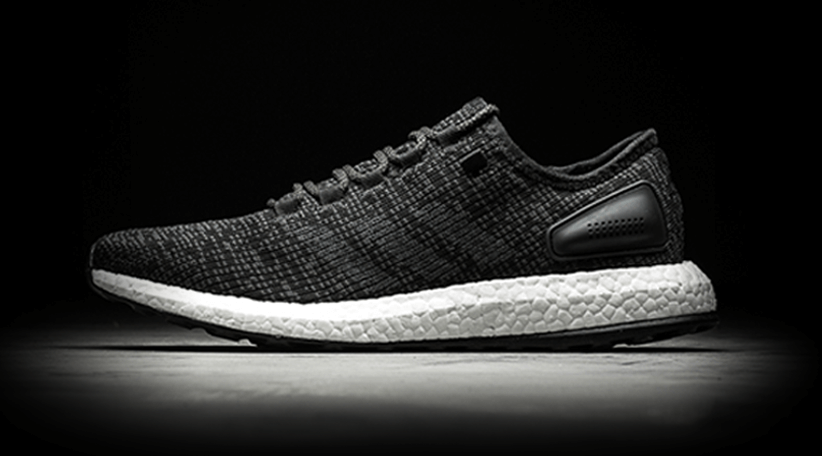
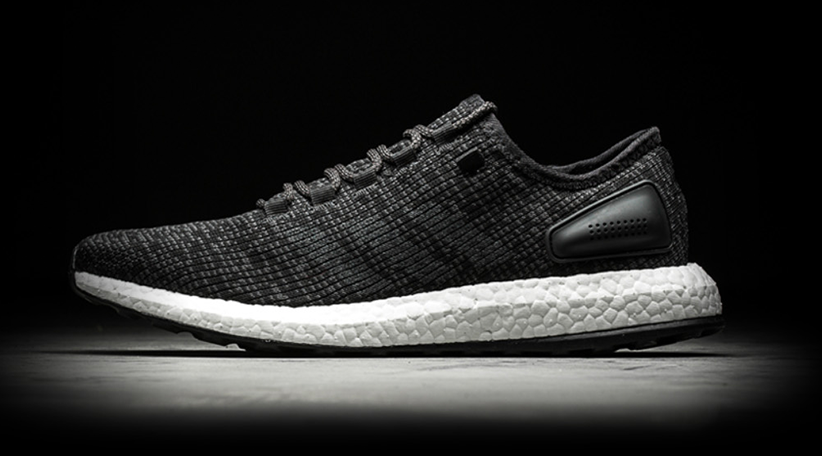
feedback 0220 19:28

Changed region(s): [[0.0304, 0.2149, 0.9124, 0.9211]]

diff --git a/app/css/layouts/_sections.scss b/app/css/layouts/_sections.scss
@@ -1,14 +1,14 @@
 #kv{
 	overflow:hidden;
-	@include Item(1336, 614, 0, 0, 0 , 0, 1336, 'fit', 'relative');
+	@include Item(1600, 795, 0, 0, 0 , 0, 1600, 'fit', 'relative');
 	padding-top: 100vh;
 	.kv{
-		@include Item(1336, 614, 0, 0, 0 , 0, 1336, 'fit', 'absolute');
+		@include Item(1600, 795, 0, 0, 0 , 0, 1600, 'fit', 'absolute');
 		background-size: cover;
 		transform: scale(1.4);
-		background-position: right center;
+		background-position: right bottom;
 		opacity: 0.1;
-		margin-top: 71px;
+		// margin-top: 71px;
 		padding-top: 100vh;
 		@media screen and (max-width: #{$screen-xs - 1}) {
 			@include Item(640, 836, 83, 0, 0, 0, 640,'fit','absolute');
@@ -16,26 +16,24 @@
 		}
 	}
 	.kv-text-1{
-		@include Item(672, 86, 170, 0, 0 , 70, 1336, 'fit', 'absolute');
-		@include Item(672, 86, 0, 0, 0 , 70, 1336, 'fit', 'absolute');
-		top: per(170, 795);
+		@include Item(784, 102, 210, 0, 0 , 112, 1600, 'fit', 'absolute');
+		// top: per(170, 795);
 
 		background-size: 100% auto;
 		text-indent: -9999em;
 		opacity: 0.1;
+		background-repeat: no-repeat;
 		@media screen and (max-width: #{$screen-xs - 1}) {
 			// @include Item(362, 46, 123, 0, 0, 129, 640,'fit','absolute');
 			@include Item(362, 46, 200, 0, 0, 129, 640,'fit','absolute');
 		}
 	}
 	.kv-text-2{
-		@include Item(566, 58, 288, 0, 0 , 70, 1336, 'fit', 'absolute');
-		@include Item(566, 58, 0, 0, 0 , 70, 1336, 'fit', 'absolute');
-		top: per(288, 795);
+		@include Item(663, 70, 352, 0, 0 , 112, 1600, 'fit', 'absolute');
 		background-size: 100% auto;
 		text-indent: -9999em;
 		opacity: 0.1;
-		// top: 20%;
+		background-repeat: no-repeat;
 		@media screen and (max-width: #{$screen-xs - 1}) {
 			// @include Item(362, 38, 195, 0, 0, 129, 640,'fit','absolute');
 			@include Item(362, 38, 270, 0, 0, 129, 640,'fit','absolute');
@@ -126,7 +124,7 @@
 		text-indent: -9999em;
 		background-repeat: no-repeat;
 		@media screen and (max-width: #{$screen-xs - 1}) {
-			@include Item(353, 205, 137, 0, 0, 107, 640,'fit','absolute');
+			@include Item(402, 209, 50, 0, 0, 107, 640,'fit','absolute');
 		}
 	}
 	.shadow{
@@ -210,7 +208,7 @@
 		opacity: 0.1;
 		z-index: 3;
 		@media screen and (max-width: #{$screen-xs - 1}) {
-			@include Item(339, 204, 60, 0, 0, 107, 640,'fit','absolute');
+			@include Item(387, 210, 60, 0, 0, 107, 640,'fit','absolute');
 		}
 		span{
 			@include SubItem();
@@ -288,7 +286,7 @@
 		text-indent: -9999em;
 		opacity: 0.1;
 		@media screen and (max-width: #{$screen-xs - 1}) {
-			@include Item(245, 203, 136, 0, 0, 107, 640,'fit','absolute');
+			@include Item(286, 207, 136, 0, 0, 107, 640,'fit','absolute');
 		}
 	}
 	.text{
@@ -366,7 +364,7 @@
 		opacity: 0.1;
 		z-index: 3;
 		@media screen and (max-width: #{$screen-xs - 1}) {
-			@include Item(284, 204, 136, 0, 0, 107, 640,'fit','absolute');
+			@include Item(332, 205, 136, 0, 0, 107, 640,'fit','absolute');
 		}
 		span{
 			@include SubItem();
@@ -417,8 +415,8 @@
 }
 
 #section5{
-	@include Item(1336, 650, 0, 0, 0 , 0, 1336, 'fit', 'relative');
-	padding-top: calc(100vh - 71px);
+	@include Item(1336, 670, 0, 0, 0 , 0, 1336, 'fit', 'relative');
+	// padding-top: calc(100vh - 71px);
 	@media screen and (max-width: #{$screen-xs - 1}) {
 		@include Item(640, 700, 0, 0, 0, 0, 640,'fit','relative');
 	}
@@ -426,10 +424,11 @@
 		background-size: 100% auto;
 		background-position: center;
 		background-repeat: no-repeat;
-		opacity: 0.1;
+		opacity: 0;
 		@include Item(310, 40, 30, 0, 0 , 92, 1336, 'fit', 'absolute');
 
 		@media screen and (max-width: #{$screen-xs - 1}) {
+			opacity: 0.1;
 			@include Item(254, 33, 62, 0, 0, 191, 640,'fit','absolute');
 		}
 	}
@@ -587,10 +586,10 @@
 	}
 	&.on{
 		.pureboost{
-			@include animation(
-				fadeIn 0.9s 1 linear forwards 0.15s
-			);
 			@media screen and (max-width: #{$screen-xs - 1}) {
+				@include animation(
+					fadeIn 0.9s 1 linear forwards 0.15s
+				);
 			}
 		}
 		button.slick-prev, button.slick-next{
